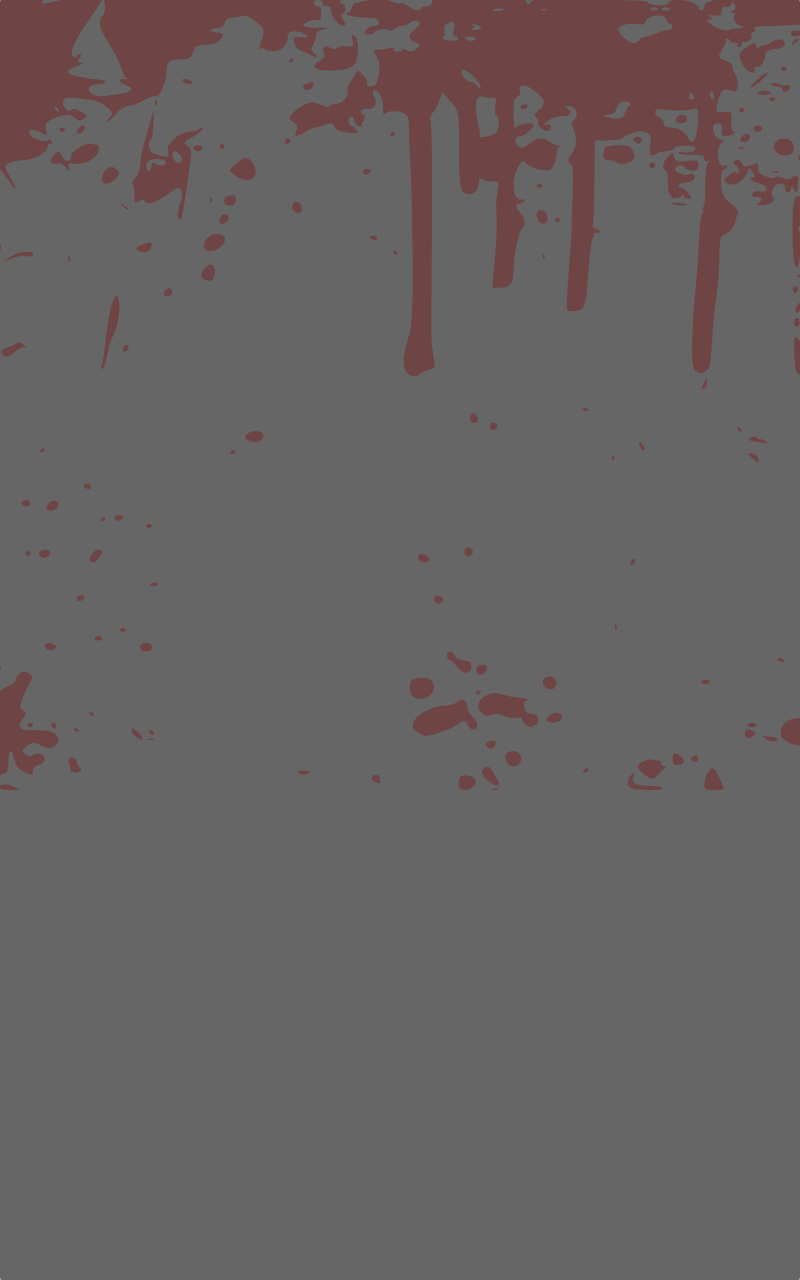
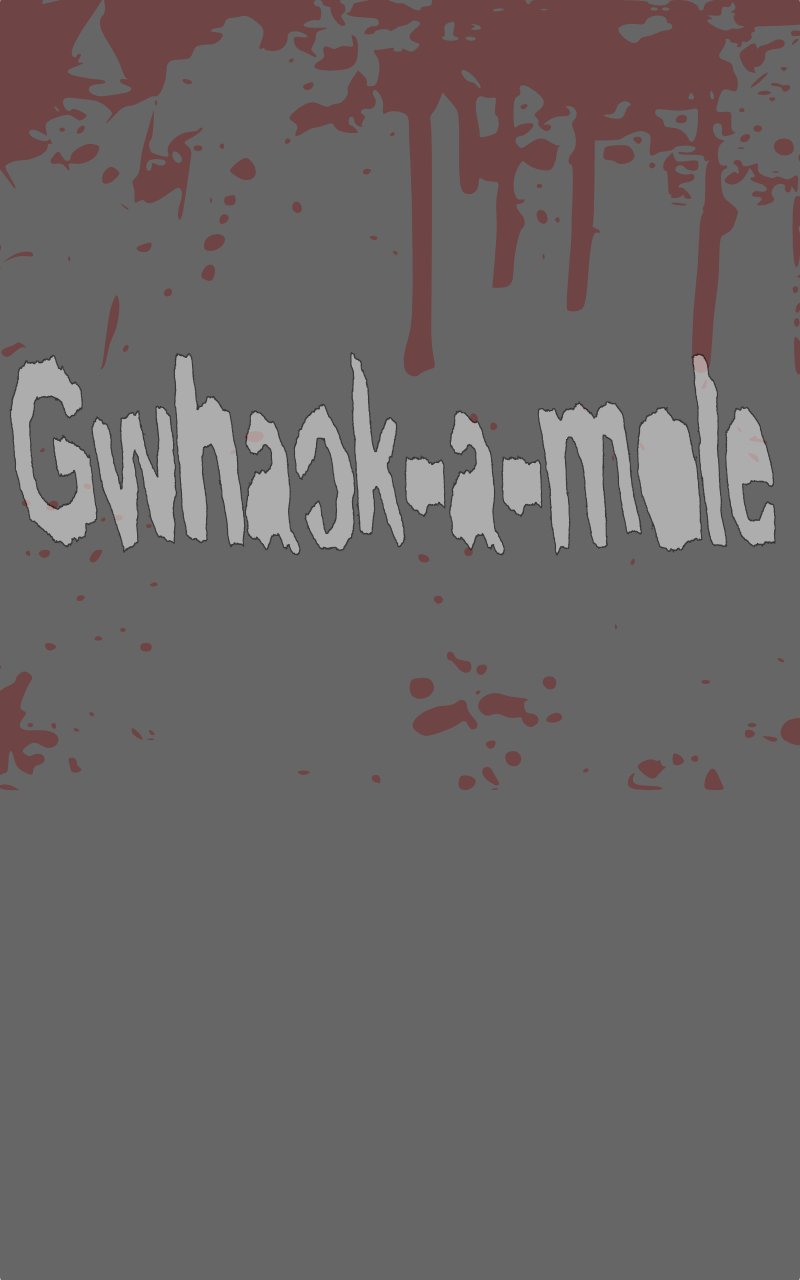
Fix title + move buttons for start and retry

Changed region(s): [[0.0, 0.2812, 0.9688, 0.4375]]

diff --git a/js/Loading.js b/js/Loading.js
@@ -40,7 +40,7 @@ function Loading()
     playButton.anchor.x = 0.5
     playButton.anchor.y = 0.5
     playButton.position.x = 400
-    playButton.position.y = 640
+    playButton.position.y = 1100
     playButton.interactive = true
     self.stage.addChild(playButton)
     

diff --git a/js/GameOver.js b/js/GameOver.js
@@ -27,7 +27,7 @@ function GameOver(score)
   retryButton.anchor.x = 0.5
   retryButton.anchor.y = 0.5
   retryButton.position.x = 400
-  retryButton.position.y = 800
+  retryButton.position.y = 1100
   retryButton.interactive = true
   this.stage.addChild(retryButton)
   
